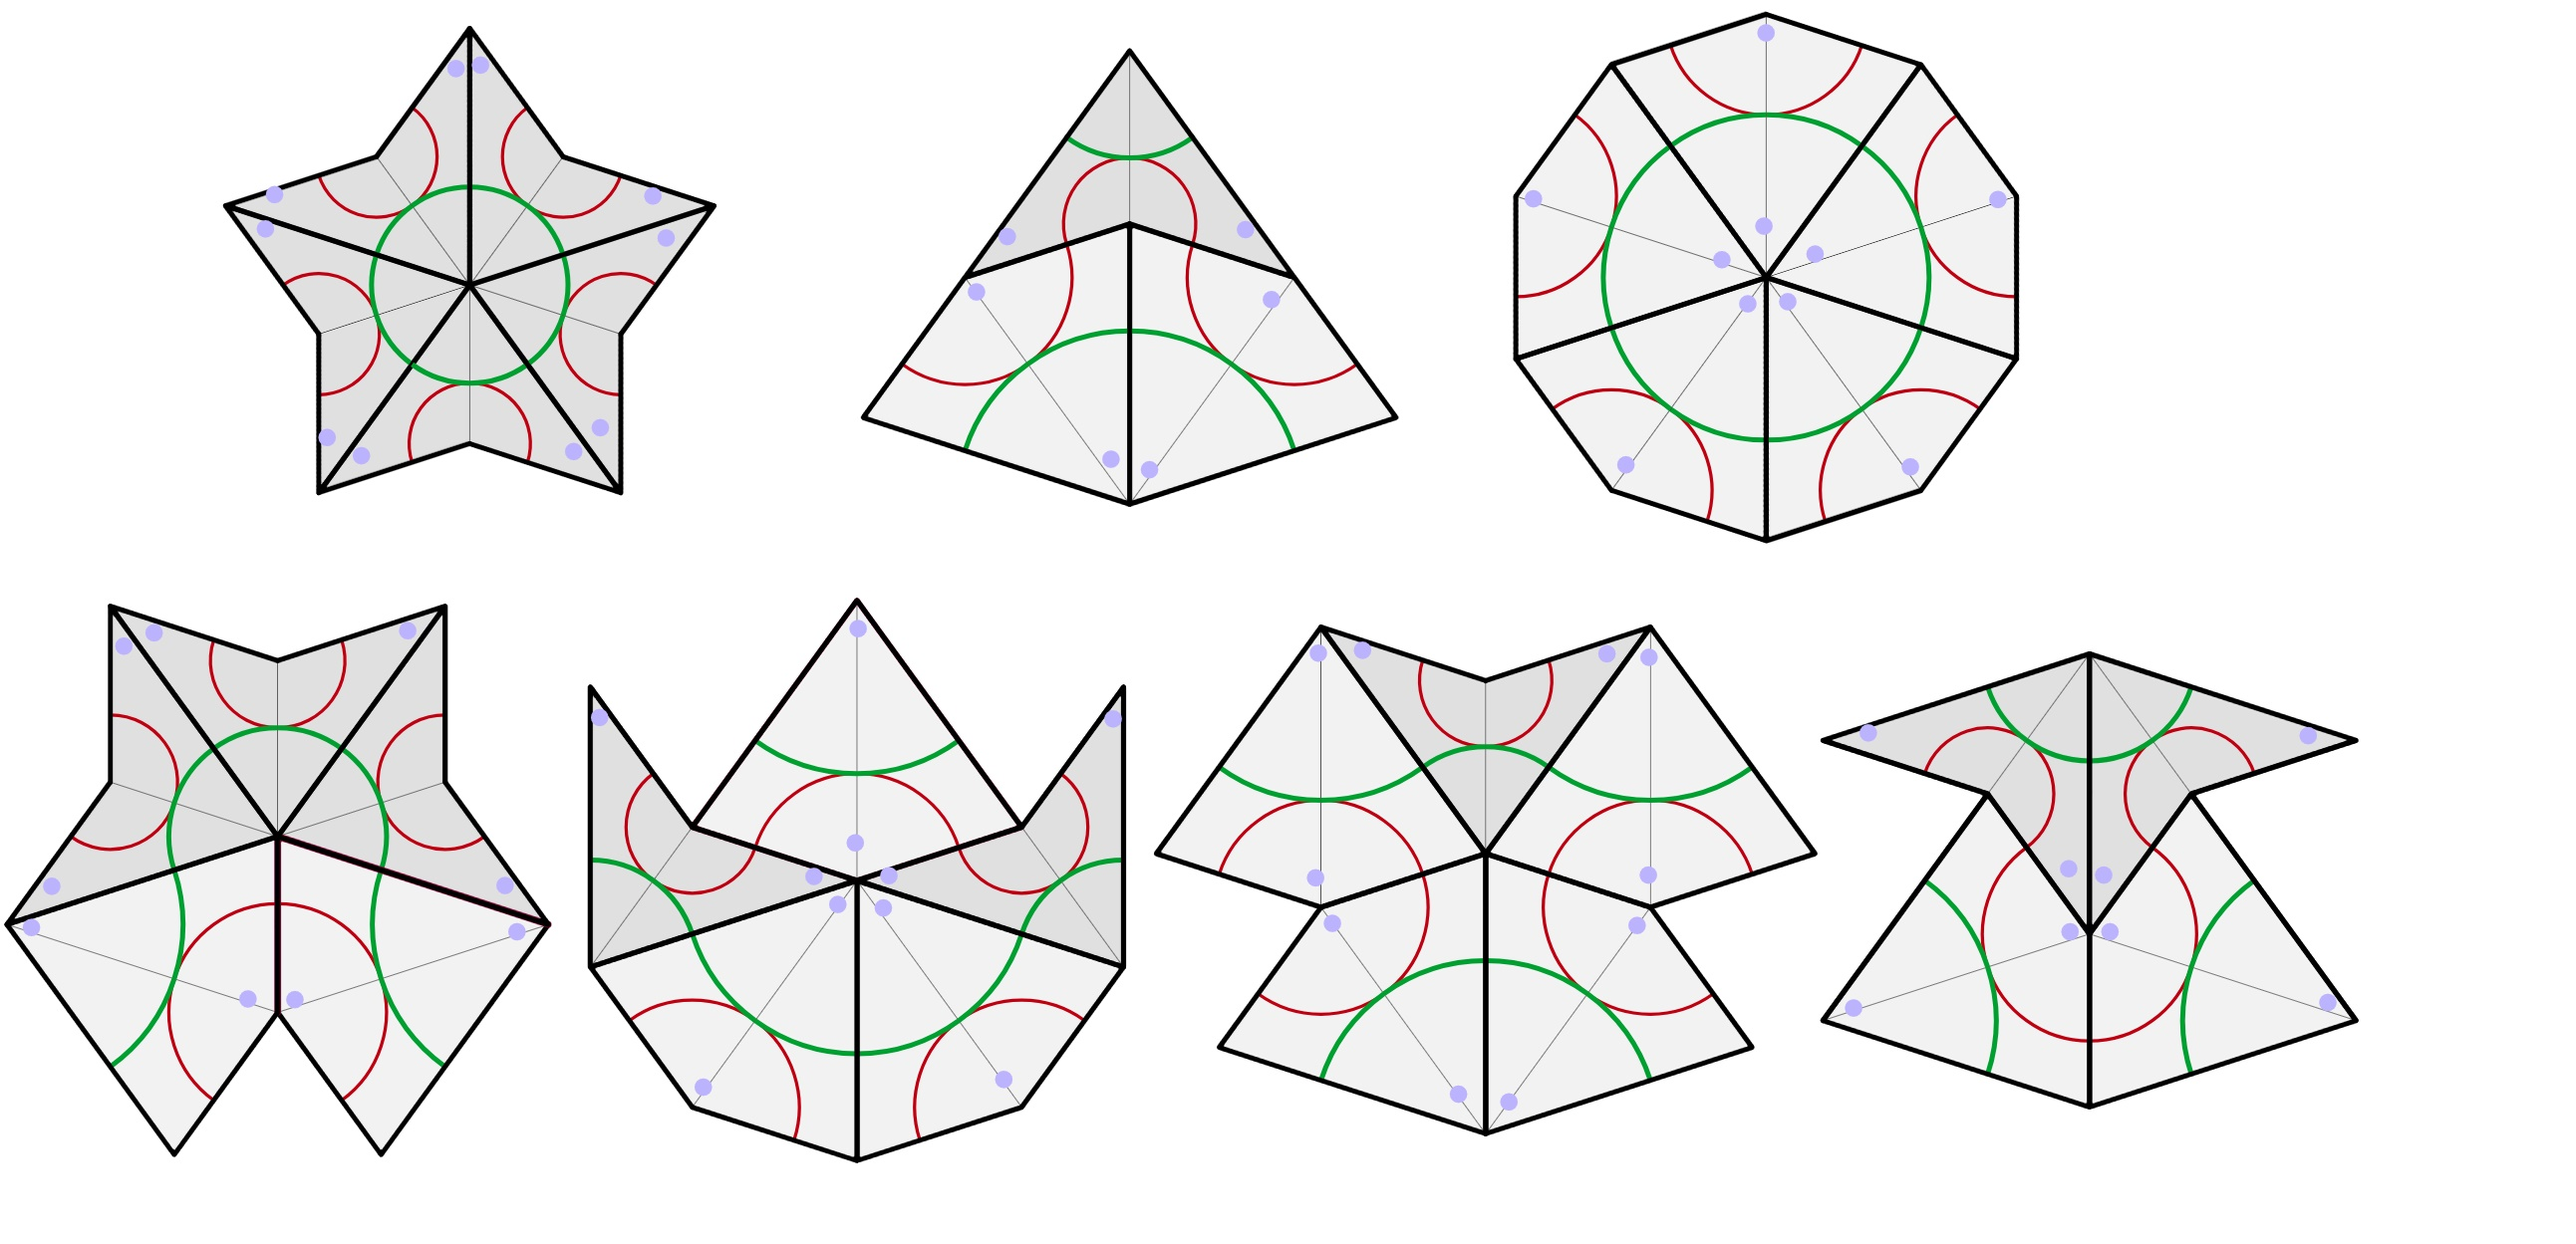
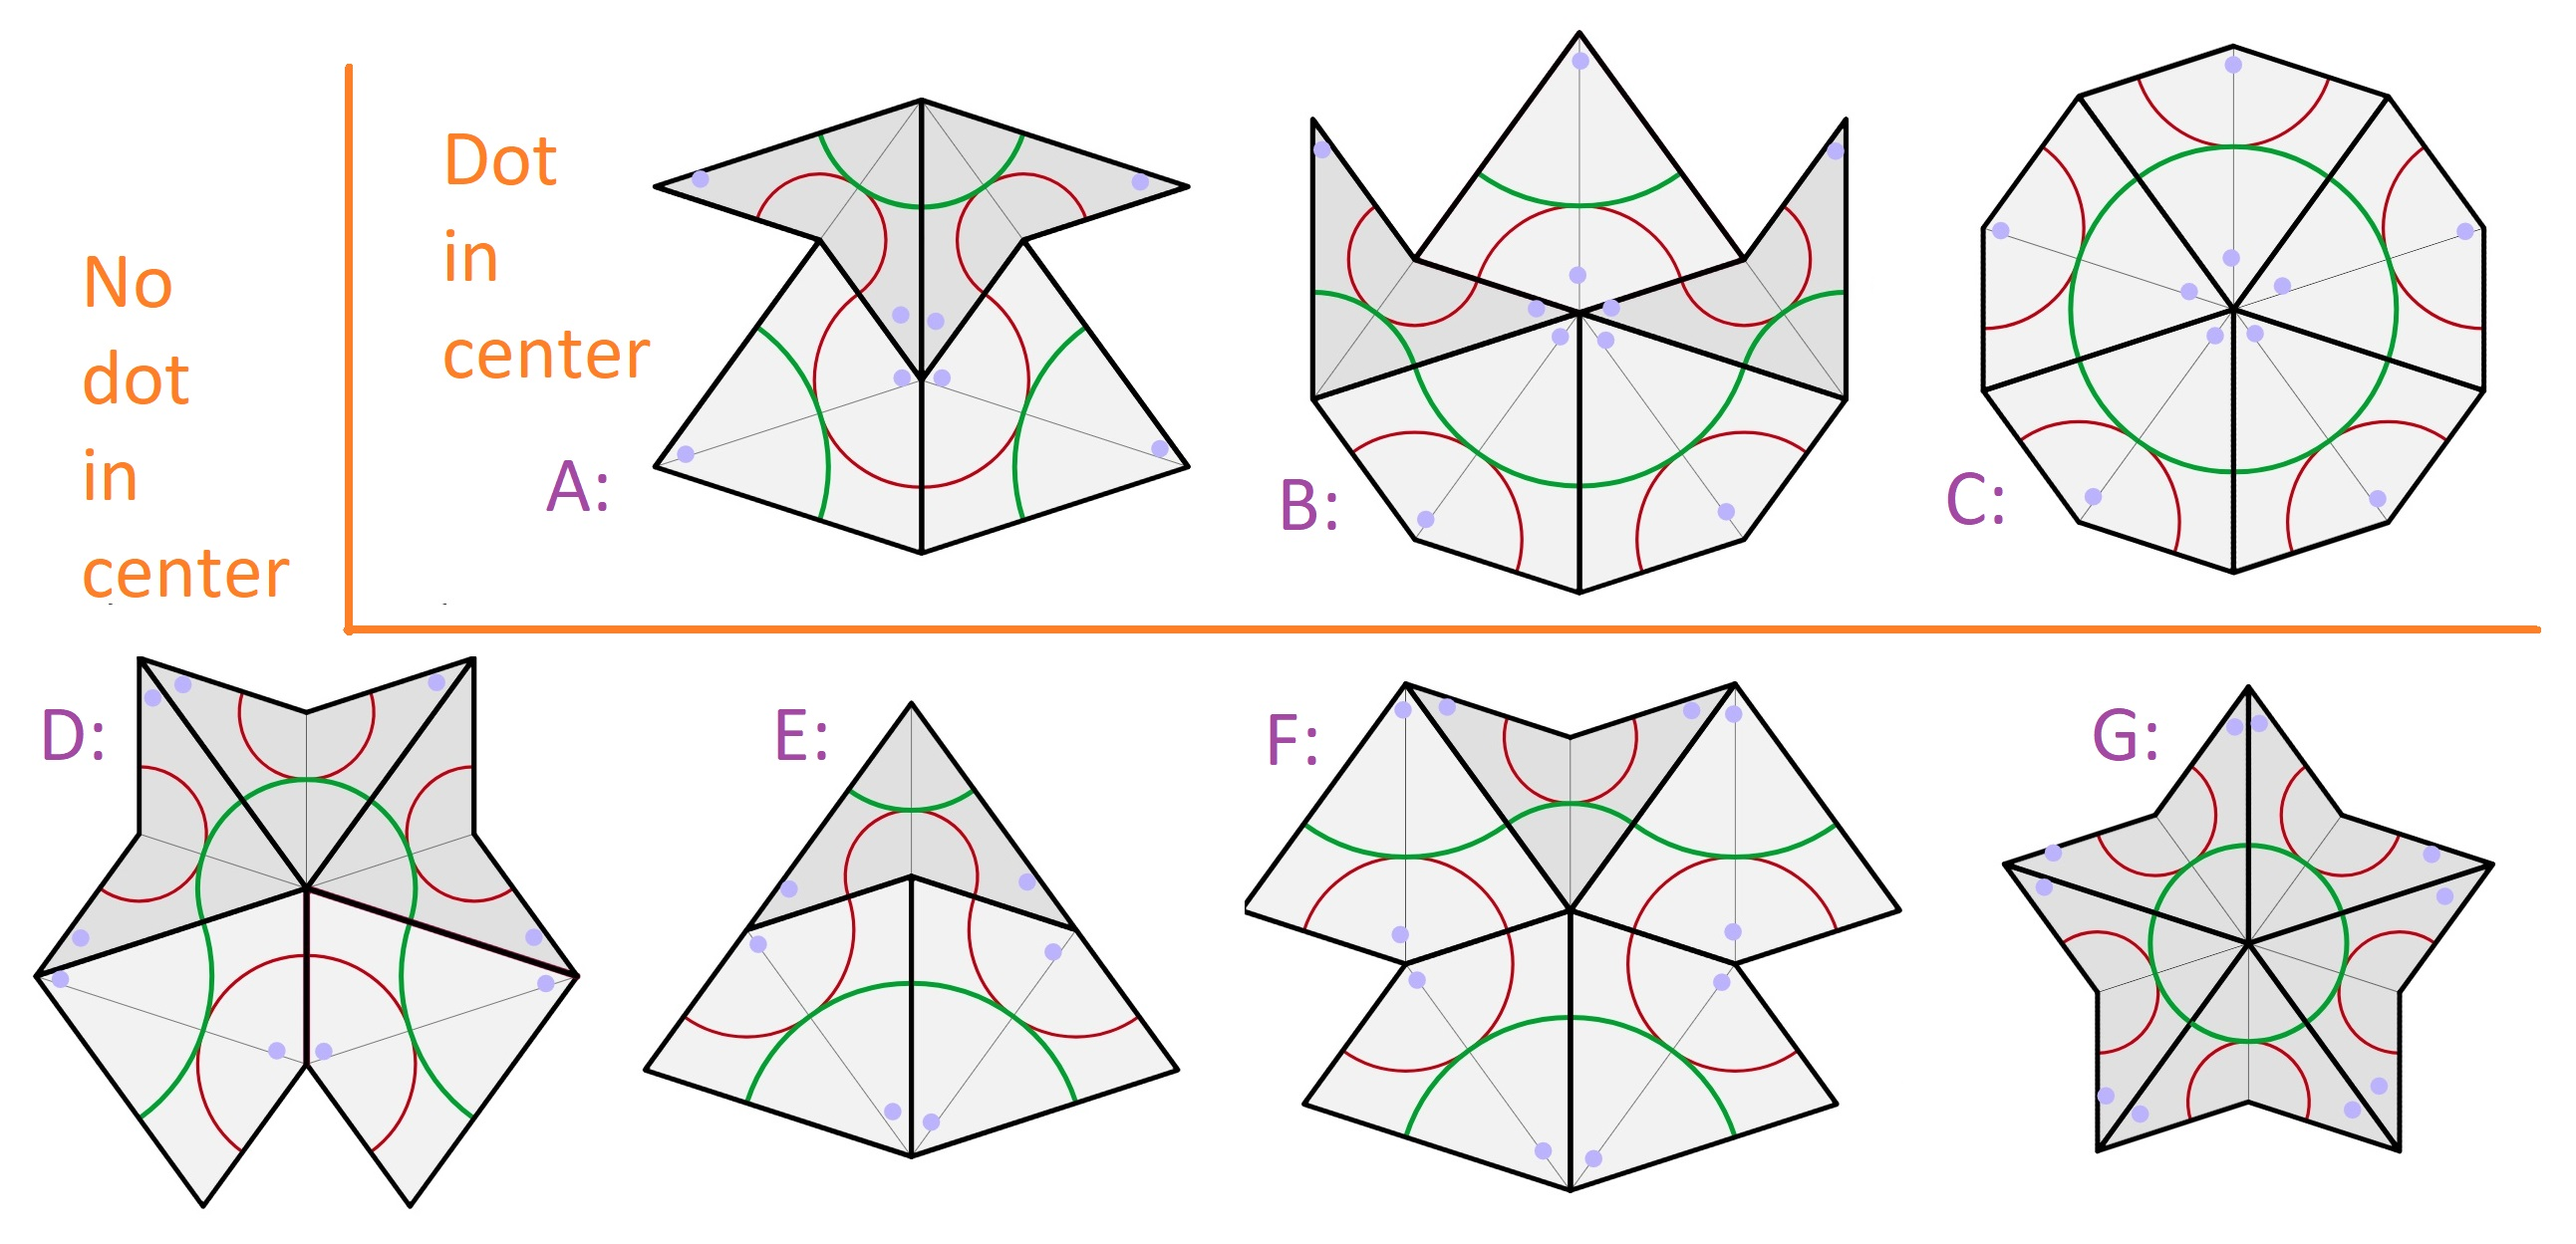
Code cleanup. No change in functionality. I refactored a small amount of code. Most of the changes were comments, pictures, console logs, and whitespace.

diff --git a/docs/penrose.ts b/docs/penrose.ts
@@ -134,9 +134,9 @@ export class Point {
       const diff = Math.hypot(x - point.x, y - point.y);
       if (diff < 1) {
         found = point;
-        if (diff > 0) {
-          console.log("Point.find", { x, y, point, diff });
-        }
+        //if (diff > 0) {
+        //  console.log("Point.find", { x, y, point, diff });
+        //}
         break;
       }
     }
@@ -453,25 +453,43 @@ export class VertexGroup {
   }
 
   private checkForForce() {
-    const kiteLong: Vertex[] = [];
-    const kiteShort: Vertex[] = [];
-    const dart: Vertex[] = [];
-    this.vertices.forEach((vertex) => {
-      if (vertex.type == "dart") {
-        dart.push(vertex);
-      } else {
-        if (vertex.to.short) {
-          // The flatter end of the kite, the front of the kite.
-          kiteShort.push(vertex);
-        } else {
-          // The pointier end of the kite, the back end.
-          kiteLong.push(vertex);
-        }
-      }
-    });
+    // See AllLegalVertices.jpg for a list of all legal moves.
+    // There are exactly 7 legal ways that kites and darts can meet at a common vertex.
+    // I've assigned letters to match the pictures to the comments.
     if (this.dot) {
+      // This is A, B, or C in our picture.
+
+      /**
+       * Kites with the pointier side touching the common point.
+       * I.e. kites with the longer segments touching the common point.
+       */
+      const kiteLong: Vertex[] = [];
+
+      /**
+       * Kites with the flatter side touching the common point.
+       * I.e. kites with the shorter segments touching the common point.
+       */
+      const kiteShort: Vertex[] = [];
+
+      /**
+       * All darts touching the common point.
+       */
+      const dart: Vertex[] = [];
+
+      this.vertices.forEach((vertex) => {
+        if (vertex.type == "dart") {
+          dart.push(vertex);
+        } else {
+          if (vertex.to.short) {
+            kiteShort.push(vertex);
+          } else {
+            kiteLong.push(vertex);
+          }
+        }
+      });
+
       if (kiteShort.length == 2) {
-        // Must have 2 darts.
+        // This must be case A.  We must have 2 darts.
         if (dart.length < 2) {
           const adjacent = kiteShort[0].isAdjacentTo(kiteShort[1]);
           if (!adjacent) {
@@ -481,6 +499,7 @@ export class VertexGroup {
           wantsDart.forEach((segment) => (segment.forcedMove = "dart"));
         }
       } else if (kiteLong.length >= 3) {
+        // This must be case C.  We must have 5 kites.
         if (kiteLong.length < 5) {
           kiteLong.forEach((vertex) => {
             vertex.to.forcedMove = "kite";
@@ -488,25 +507,75 @@ export class VertexGroup {
           });
         }
       } else if (kiteShort.length == 1) {
+        // This must be case A or B.
         if (dart.length == 2 && kiteLong.length < 2) {
-          const adjacent = dart.map(dartVertex => dartVertex.isAdjacentTo(kiteShort[0]));
-          const wantsTwoLongKites = adjacent.every(result => result);
+          const adjacent = dart.map((dartVertex) =>
+            dartVertex.isAdjacentTo(kiteShort[0])
+          );
+          const wantsTwoLongKites = adjacent.every((result) => result);
           if (wantsTwoLongKites) {
-            dart.forEach(dartVertex => {
-              const longSegment = dartVertex.from.long?dartVertex.from:dartVertex.to;
+          // This must be case B.
+          dart.forEach((dartVertex) => {
+              const longSegment = dartVertex.from.long
+                ? dartVertex.from
+                : dartVertex.to;
               longSegment.forcedMove = "kite";
             });
           }
         }
       }
     } else {
-      // This is causing the program to crash.  I'm still troubleshooting that.
-      if (dart.length == 4) {
-        dart.forEach(vertex => {
+      // No dot.  This must match D, E, F, or G in the picture.
+
+      /**
+       * All kites meeting at this common point.
+       */
+      const kite: Vertex[] = [];
+
+      /**
+       * All darts pointing toward this common point.
+       */
+      const dartIn: Vertex[] = [];
+
+      /**
+       * All darts pointing away from this common point.
+       */
+      const dartOut: Vertex[] = [];
+
+      this.vertices.forEach((vertex) => {
+        if (vertex.type == "dart") {
+          if (vertex.to.short) {
+            dartIn.push(vertex);
+          } else {
+            dartOut.push(vertex);
+          }
+        } else {
+          kite.push(vertex);
+        }
+      });
+
+      // We get case E for free.  Shape.createDart() immediately adds 
+      // the requirement for two kites.  It's tempting to move that code
+      // here for consistency.
+      if (dartIn.length == 4) {
+        // This must be case G.  We must have 5 darts.
+        this.vertices.forEach((vertex) => {
           vertex.to.forcedMove = "dart";
           vertex.from.forcedMove = "dart";
-        })
+        });
       }
+      // TODO:
+      // If exactly 2 kites and exactly 2 darts, case D, add one more dart.
+      // If exactly 2 kites and exactly 1 dart, and the dart is not adjacent to either kite, case D, add two more darts.
+      // If 3 or 4 kites, case F, total 4 kites and 1 dart.
+      // If exactly 2 kites and they are not adjacent, case F.
+      //   If the dart is already in place, just fill in the two missing kites.
+      //   Otherwise the dart will be touching at least on of the existing, but we have to figure out which of the four kite segments to start from.
+      // If exactly 3 darts, and one is not adjacent to either of the other two, then case G.
+      // Case E is definitely as good as it can be!
+      // The others deserve a closer look.
+      //   There can be strange cases,
+      //   especially when the pieces are coming from two different directions.
     }
   }
 

diff --git a/docs/penrose.js b/docs/penrose.js
@@ -77,9 +77,6 @@ export class Point {
             const diff = Math.hypot(x - point.x, y - point.y);
             if (diff < 1) {
                 found = point;
-                if (diff > 0) {
-                    console.log("Point.find", { x, y, point, diff });
-                }
                 break;
             }
         }
@@ -274,23 +271,23 @@ export class VertexGroup {
         this.checkForForce();
     }
     checkForForce() {
-        const kiteLong = [];
-        const kiteShort = [];
-        const dart = [];
-        this.vertices.forEach((vertex) => {
-            if (vertex.type == "dart") {
-                dart.push(vertex);
-            }
-            else {
-                if (vertex.to.short) {
-                    kiteShort.push(vertex);
+        if (this.dot) {
+            const kiteLong = [];
+            const kiteShort = [];
+            const dart = [];
+            this.vertices.forEach((vertex) => {
+                if (vertex.type == "dart") {
+                    dart.push(vertex);
                 }
                 else {
-                    kiteLong.push(vertex);
+                    if (vertex.to.short) {
+                        kiteShort.push(vertex);
+                    }
+                    else {
+                        kiteLong.push(vertex);
+                    }
                 }
-            }
-        });
-        if (this.dot) {
+            });
             if (kiteShort.length == 2) {
                 if (dart.length < 2) {
                     const adjacent = kiteShort[0].isAdjacentTo(kiteShort[1]);
@@ -311,11 +308,13 @@ export class VertexGroup {
             }
             else if (kiteShort.length == 1) {
                 if (dart.length == 2 && kiteLong.length < 2) {
-                    const adjacent = dart.map(dartVertex => dartVertex.isAdjacentTo(kiteShort[0]));
-                    const wantsTwoLongKites = adjacent.every(result => result);
+                    const adjacent = dart.map((dartVertex) => dartVertex.isAdjacentTo(kiteShort[0]));
+                    const wantsTwoLongKites = adjacent.every((result) => result);
                     if (wantsTwoLongKites) {
-                        dart.forEach(dartVertex => {
-                            const longSegment = dartVertex.from.long ? dartVertex.from : dartVertex.to;
+                        dart.forEach((dartVertex) => {
+                            const longSegment = dartVertex.from.long
+                                ? dartVertex.from
+                                : dartVertex.to;
                             longSegment.forcedMove = "kite";
                         });
                     }
@@ -323,8 +322,24 @@ export class VertexGroup {
             }
         }
         else {
-            if (dart.length == 4) {
-                dart.forEach(vertex => {
+            const kite = [];
+            const dartIn = [];
+            const dartOut = [];
+            this.vertices.forEach((vertex) => {
+                if (vertex.type == "dart") {
+                    if (vertex.to.short) {
+                        dartIn.push(vertex);
+                    }
+                    else {
+                        dartOut.push(vertex);
+                    }
+                }
+                else {
+                    kite.push(vertex);
+                }
+            });
+            if (dartIn.length == 4) {
+                this.vertices.forEach((vertex) => {
                     vertex.to.forcedMove = "dart";
                     vertex.from.forcedMove = "dart";
                 });
